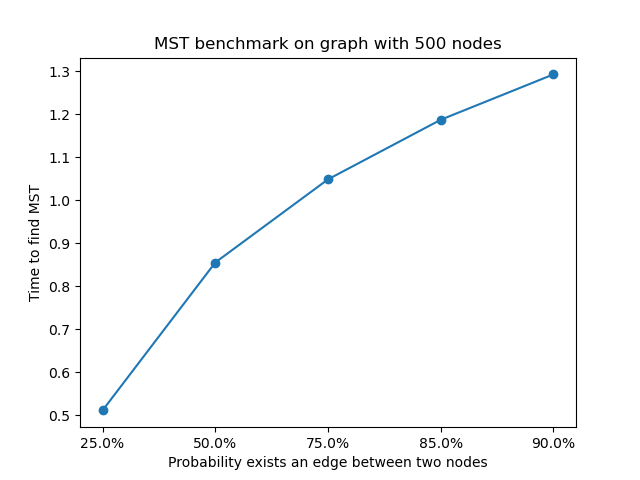
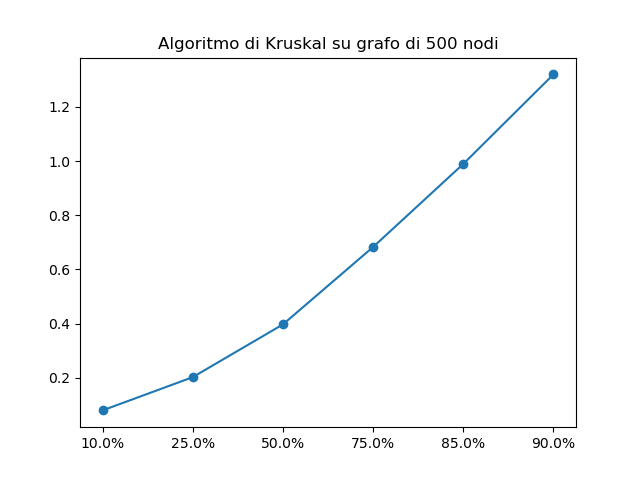
update results

diff --git a/results/connected_components.tex b/results/connected_components.tex
@@ -2,38 +2,38 @@
 \toprule
  Probabilità arco &  Componenti connesse \\
 \midrule
-           0.0005 &                  434 \\
-           0.0010 &                  365 \\
-           0.0015 &                  320 \\
-           0.0020 &                  273 \\
-           0.0025 &                  201 \\
-           0.0030 &                  146 \\
-           0.0035 &                   90 \\
-           0.0040 &                   85 \\
-           0.0045 &                   58 \\
-           0.0050 &                   61 \\
-           0.0055 &                   38 \\
-           0.0060 &                   23 \\
-           0.0065 &                   19 \\
-           0.0070 &                   22 \\
-           0.0075 &                   14 \\
-           0.0080 &                    6 \\
-           0.0085 &                   10 \\
-           0.0090 &                    7 \\
-           0.0095 &                    6 \\
-           0.0100 &                    5 \\
+           0.0005 &                  438 \\
+           0.0010 &                  390 \\
+           0.0015 &                  315 \\
+           0.0020 &                  233 \\
+           0.0025 &                  148 \\
+           0.0030 &                  152 \\
+           0.0035 &                  109 \\
+           0.0040 &                   86 \\
+           0.0045 &                   59 \\
+           0.0050 &                   46 \\
+           0.0055 &                   39 \\
+           0.0060 &                   24 \\
+           0.0065 &                   26 \\
+           0.0070 &                   12 \\
+           0.0075 &                   12 \\
+           0.0080 &                    9 \\
+           0.0085 &                    7 \\
+           0.0090 &                    6 \\
+           0.0095 &                    7 \\
+           0.0100 &                    3 \\
            0.0105 &                    5 \\
-           0.0110 &                    2 \\
-           0.0115 &                    1 \\
-           0.0120 &                    4 \\
-           0.0125 &                    3 \\
+           0.0110 &                    3 \\
+           0.0115 &                    5 \\
+           0.0120 &                    2 \\
+           0.0125 &                    1 \\
            0.0130 &                    1 \\
            0.0135 &                    2 \\
            0.0140 &                    1 \\
            0.0145 &                    1 \\
            0.0150 &                    1 \\
            0.0155 &                    1 \\
-           0.0160 &                    2 \\
+           0.0160 &                    1 \\
            0.0165 &                    1 \\
            0.0170 &                    1 \\
            0.0175 &                    1 \\

diff --git a/results/graph_2500_.tex b/results/graph_2500_.tex
@@ -1,11 +1,12 @@
 \begin{tabular}{lrr}
 \toprule
-Probabilities &   MST\_time &  Path\_cost \\
+Probabilities &    MST\_time &  Path\_cost \\
 \midrule
-        25.0\% &   9.355947 &      48310 \\
-        50.0\% &  23.842331 &      24884 \\
-        75.0\% &  41.475755 &      17452 \\
-        85.0\% &  60.961572 &      15341 \\
-        90.0\% &  81.663969 &      14490 \\
+        10.0\% &    5.510509 &     122976 \\
+        25.0\% &   15.904401 &      49737 \\
+        50.0\% &   34.978670 &      26051 \\
+        75.0\% &   62.569031 &      17948 \\
+        85.0\% &   93.872731 &      15567 \\
+        90.0\% &  125.975343 &      14580 \\
 \bottomrule
 \end{tabular}

diff --git a/results/graph_1000_.tex b/results/graph_1000_.tex
@@ -2,10 +2,11 @@
 \toprule
 Probabilities &  MST\_time &  Path\_cost \\
 \midrule
-        25.0\% &  0.585374 &      48580 \\
-        50.0\% &  1.528938 &      24001 \\
-        75.0\% &  3.049674 &      15563 \\
-        85.0\% &  5.123398 &      14680 \\
-        90.0\% &  7.259913 &      14099 \\
+        10.0\% &  0.379693 &     111758 \\
+        25.0\% &  1.041121 &      50716 \\
+        50.0\% &  2.210328 &      24657 \\
+        75.0\% &  4.025355 &      16551 \\
+        85.0\% &  6.347247 &      14149 \\
+        90.0\% &  8.856600 &      13992 \\
 \bottomrule
 \end{tabular}

diff --git a/results/graph_100_.tex b/results/graph_100_.tex
@@ -2,10 +2,11 @@
 \toprule
 Probabilities &  MST\_time &  Path\_cost \\
 \midrule
-        25.0\% &  0.004275 &      46625 \\
-        50.0\% &  0.009641 &      24735 \\
-        75.0\% &  0.016913 &      17993 \\
-        85.0\% &  0.025333 &      13157 \\
-        90.0\% &  0.034317 &      13244 \\
+        10.0\% &  0.003406 &     109907 \\
+        25.0\% &  0.007808 &      49250 \\
+        50.0\% &  0.014135 &      27415 \\
+        75.0\% &  0.022129 &      16097 \\
+        85.0\% &  0.030504 &      13687 \\
+        90.0\% &  0.039382 &      16998 \\
 \bottomrule
 \end{tabular}

diff --git a/results/graph_10_.tex b/results/graph_10_.tex
@@ -2,10 +2,11 @@
 \toprule
 Probabilities &  MST\_time &  Path\_cost \\
 \midrule
-        25.0\% &  0.000107 &      26200 \\
-        50.0\% &  0.000254 &      23191 \\
-        75.0\% &  0.000374 &      15880 \\
-        85.0\% &  0.000517 &      12341 \\
-        90.0\% &  0.000678 &      14467 \\
+        10.0\% &  0.000081 &      31154 \\
+        25.0\% &  0.000195 &      27515 \\
+        50.0\% &  0.000318 &      25858 \\
+        75.0\% &  0.000465 &      16483 \\
+        85.0\% &  0.000601 &       8693 \\
+        90.0\% &  0.000742 &       8406 \\
 \bottomrule
 \end{tabular}

diff --git a/results/graph_500_.tex b/results/graph_500_.tex
@@ -2,10 +2,11 @@
 \toprule
 Probabilities &  MST\_time &  Path\_cost \\
 \midrule
-        25.0\% &  0.127978 &      51688 \\
-        50.0\% &  0.323280 &      25704 \\
-        75.0\% &  0.579245 &      15491 \\
-        85.0\% &  0.861888 &      13916 \\
-        90.0\% &  1.157167 &      13183 \\
+        10.0\% &  0.079387 &     120906 \\
+        25.0\% &  0.202174 &      47322 \\
+        50.0\% &  0.396912 &      23283 \\
+        75.0\% &  0.682868 &      15798 \\
+        85.0\% &  0.989601 &      14355 \\
+        90.0\% &  1.320403 &      13587 \\
 \bottomrule
 \end{tabular}

diff --git a/results/graph_50_.tex b/results/graph_50_.tex
@@ -2,10 +2,11 @@
 \toprule
 Probabilities &  MST\_time &  Path\_cost \\
 \midrule
-        25.0\% &  0.001284 &      37345 \\
-        50.0\% &  0.003065 &      15639 \\
-        75.0\% &  0.005331 &      16223 \\
-        85.0\% &  0.007751 &      16280 \\
-        90.0\% &  0.009926 &      12641 \\
+        10.0\% &  0.001068 &     119511 \\
+        25.0\% &  0.002477 &      47411 \\
+        50.0\% &  0.004189 &      23319 \\
+        75.0\% &  0.006223 &      15815 \\
+        85.0\% &  0.008385 &      15285 \\
+        90.0\% &  0.010732 &      12422 \\
 \bottomrule
 \end{tabular}

diff --git a/experiment.py b/experiment.py
@@ -109,7 +109,7 @@ def start_experiment():
         print("Directory already exist")
         pass
     # list of probability threshold
-    probabilities = [0.25, 0.5, 0.75, 0.85, 0.9]
+    probabilities = [0.1, 0.25, 0.5, 0.75, 0.85, 0.9]
     dimensions = [10, 50, 100, 500, 1000, 2500]
     generate_random_graph(probabilities, dimensions)
     for dim in dimensions:
